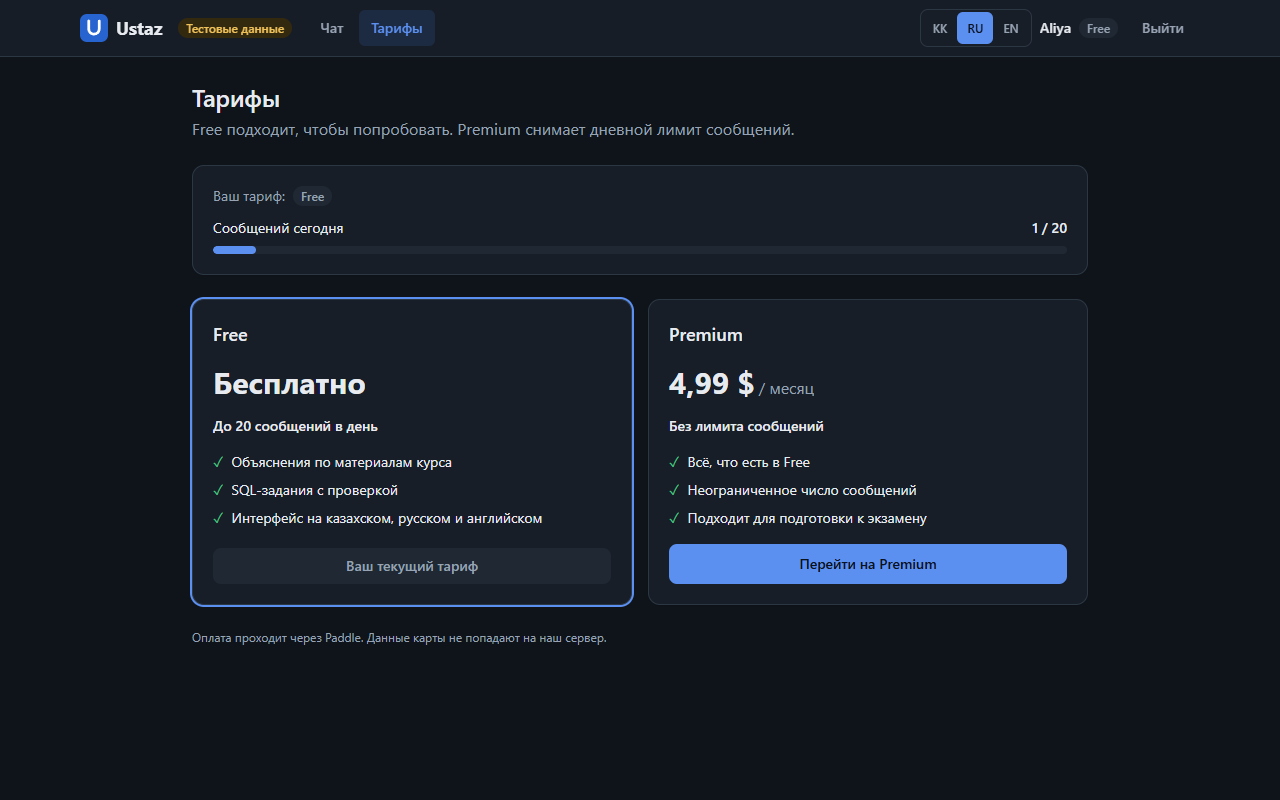
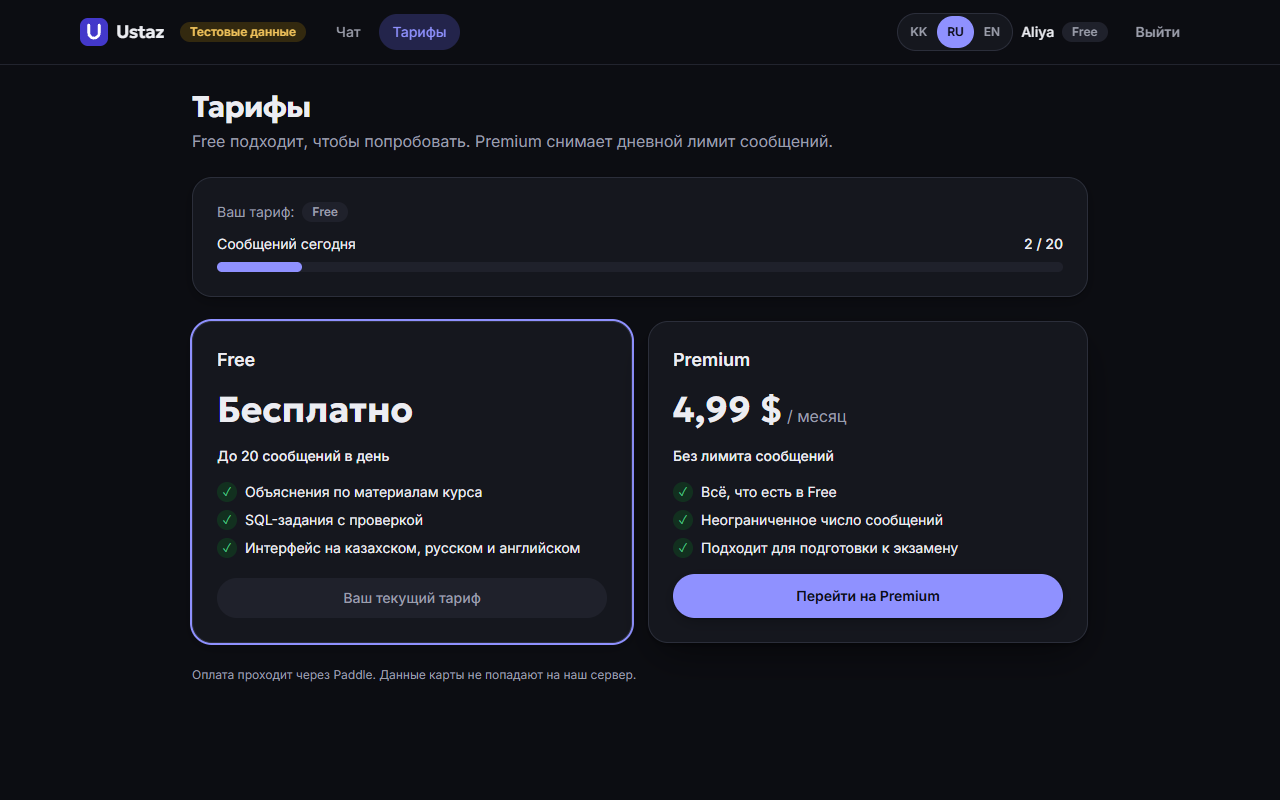
Update design docs and screenshots

diff --git a/docs/design.md b/docs/design.md
@@ -1,15 +1,15 @@
 # Дизайн экранов
 
-Четыре экрана Milestone 2: вход, чат, SQL-задание, тарифы. Для каждого — раскладка на телефоне (ширина 360 px) и ноутбуке (1280 px), состояния и скриншоты из `docs/design/`.
+Публичная главная страница и четыре экрана приложения: вход, чат, SQL-задание, тарифы. Для каждого — раскладка на телефоне (ширина 360 px) и ноутбуке (1280 px), состояния и скриншоты из `docs/design/`. Отдельный раздел описывает анимацию.
 
-Скриншоты сняты с работающего frontend в режиме тестовых данных (`VITE_MOCK_API`), поэтому совпадают с тем, что видит пользователь.
+Скриншоты сняты с работающего frontend в режиме тестовых данных (`VITE_MOCK_API=all`), поэтому совпадают с тем, что видит пользователь. Ноутбук — 1280×800, телефон — 360 px при плотности 2×.
 
 ## Стиль
 
 ### Принципы
 
-- Спокойный интерфейс для учёбы: светлый фон, белые карточки, один акцентный цвет.
-- Код и SQL — всегда моноширинным шрифтом на сером фоне, чтобы отличался от объяснений.
+- Спокойный интерфейс для учёбы: тёплый светлый фон, белые карточки, один акцентный цвет — индиго.
+- Заголовки — крупным выразительным шрифтом, текст — нейтральным. Код и SQL — всегда моноширинным шрифтом на отдельном фоне.
 - Ответы ИИ всегда помечены бейджем «Сгенерировано ИИ», источники — под ответом.
 - Тёмная тема включается автоматически по настройке системы (`prefers-color-scheme`).
 
@@ -19,25 +19,30 @@
 
 | Токен | Светлая | Тёмная | Где |
 |---|---|---|---|
-| `bg` | `#f6f7f9` | `#0f141b` | фон страницы |
-| `surface` | `#ffffff` | `#171e27` | карточки, шапка, поля |
-| `surface-muted` | `#eef1f5` | `#1f2833` | код, шапки таблиц, неактивное |
-| `border` | `#dde2e9` | `#2c3744` | рамки |
-| `text` | `#18212f` | `#e7ebf0` | основной текст |
-| `muted` | `#5b6676` | `#97a3b3` | подписи, второстепенный текст |
-| `primary` | `#2864d0` | `#5b8ff0` | кнопки, ссылки, сообщения студента |
-| `primary-soft` | `#e6eefc` | `#1c2a42` | выбранная тема, источники |
-| `success` / `success-soft` | `#157644` / `#e4f5eb` | `#4cc283` / `#133024` | «Верно» |
-| `warning` / `warning-soft` | `#8a5a00` / `#fff4dc` | `#f0c25a` / `#33290f` | «Сгенерировано ИИ», лимит, неверный результат |
-| `danger` / `danger-soft` | `#c2352b` / `#fdeceb` | `#f0776d` / `#3a1b19` | ошибки, ошибка SQL |
+| `bg` | `#f5f3ee` | `#0c0d12` | фон страницы |
+| `surface` | `#ffffff` | `#15171e` | карточки, шапка, поля |
+| `surface-muted` | `#eeebe4` | `#1f212b` | код, шапки таблиц, неактивное |
+| `border` | `#dfdbd1` | `#2b2e3a` | рамки |
+| `text` | `#15161b` | `#ecedf2` | основной текст |
+| `muted` | `#5a5d66` | `#9b9eab` | подписи, второстепенный текст |
+| `primary` | `#4338ca` | `#8f91ff` | кнопки, ссылки, сообщения студента |
+| `primary-soft` | `#e9e8fc` | `#23244b` | выбранная тема, источники |
+| `success` / `success-soft` | `#137343` / `#e3f4e9` | `#4cc283` / `#12301f` | «Верно» |
+| `warning` / `warning-soft` | `#865600` / `#fdf1d6` | `#f0c25a` / `#33290f` | «Сгенерировано ИИ», лимит, неверный результат |
+| `danger` / `danger-soft` | `#bf342a` / `#fcebe9` | `#f27a70` / `#3a1c1a` | ошибки, ошибка SQL |
 
-Пары текст/фон подобраны с контрастом не ниже 4.5:1 (WCAG AA).
+Все пары текст/фон в обеих темах дают контраст не ниже 4.5:1 (WCAG AA); самая низкая пара — `danger` на `danger-soft`, 4.87:1.
 
-### Шрифт
+Кроме цветов, есть токены теней: `shadow-card` (карточки) и `shadow-pop` (приподнятые элементы: главная кнопка, окно редактора, Premium).
 
-- Текст: `Inter, Segoe UI, Roboto, Helvetica Neue, Arial, sans-serif` — системные шрифты, ничего не загружается. Все они поддерживают казахские буквы (ә, ғ, қ, ң, ө, ұ, ү, һ, і).
-- Код: `JetBrains Mono, Cascadia Code, Consolas, Liberation Mono, monospace`.
-- Размеры: заголовок страницы 24 px полужирный, заголовок карточки 18 px, текст 16 px, подписи 14 px, бейджи 12 px.
+### Шрифты
+
+Оба шрифта загружаются из пакетов `@fontsource-variable` и входят в сборку, внешних запросов нет.
+
+- Текст: Inter.
+- Заголовки (`font-display`): Geologica. Проверено в браузере: оба шрифта содержат все казахские буквы (Әә Ғғ Ққ Ңң Өө Ұұ Үү Һһ Іі). Unbounded, Manrope, Jost, Dela Gothic One и Russo One отклонены — в них этих букв нет.
+- Код: системный моноширинный (`Cascadia Code`, `Consolas` и т. д.), ничего не загружается.
+- Размеры: заголовок страницы 30 px жирный, заголовок карточки 18 px, текст 16 px, подписи 14 px, бейджи 12 px. На главной заголовки секций 30–48 px, первый экран — до 72 px.
 
 ### Элементы
 
@@ -45,22 +50,24 @@
 
 | Элемент | Вид |
 |---|---|
-| Кнопка primary | фон `primary`, белый текст, скругление 8 px, высота от 40 px. Одна главная кнопка на экране |
-| Кнопка secondary | белая с рамкой — быстрые действия, второстепенное |
+| Кнопка primary | фон `primary`, «таблетка», высота от 44 px, тень `shadow-card`. Одна главная кнопка на экране |
+| Кнопка secondary | фон `surface` с рамкой — быстрые действия, второстепенное |
 | Кнопка ghost | без фона — «Выйти», «Другое задание» |
+| `ButtonLink`, `ButtonAnchor` | ссылка на страницу или якорь в виде кнопки — «Войти», «Начать», «Как это работает» |
 | Кнопка disabled / loading | прозрачность 50 %; при загрузке — спиннер слева от текста |
-| Поле ввода | рамка `border`, высота от 40 px, шрифт 16 px (на iPhone не зумит страницу). Фокус — рамка и подсветка `primary`. Ошибка — красная рамка и текст под полем |
-| Карточка | фон `surface`, рамка, скругление 12 px, лёгкая тень, отступ 20 px |
-| Сообщение | `Alert`: ошибка, информация, успех, предупреждение — мягкий фон и цвет текста того же тона |
-| Бейдж | маленькая «таблетка»: план, «Тестовые данные», «Сгенерировано ИИ» |
+| Поле ввода | рамка `border`, скругление 12 px, высота от 44 px, шрифт 16 px (на iPhone не зумит страницу). Фокус — рамка и широкая подсветка `primary`. Ошибка — красная рамка и текст под полем |
+| Карточка | фон `surface`, рамка, скругление 20 px, тень `shadow-card`, отступ 20–24 px |
+| Сообщение | `Alert`: ошибка, информация, успех, предупреждение — мягкий фон, тонкая рамка и текст того же тона |
+| Бейдж | маленькая «таблетка»: план, «Тестовые данные», «Сгенерировано ИИ», «Скоро» |
 
 Отступы — шаг 4 px (Tailwind). Ширина контента — до 1152 px по центру, поля по бокам 16 px.
 
 ### Адаптивность
 
 - До 640 px: одна колонка, навигация — второй строкой шапки, бейджи плана и «Тестовые данные» скрыты.
-- От 1024 px: у чата появляется боковая колонка тем, у задания — две колонки (условие слева, запрос справа).
-- Горизонтальной прокрутки страницы нет на 360 px; широкие блоки кода и таблицы прокручиваются внутри себя.
+- До 768 px: сцены главной страницы упрощены (см. «Анимация»).
+- От 1024 px: у входа появляется левая панель, у чата — боковая колонка тем, у задания — две колонки.
+- Горизонтальной прокрутки страницы нет на 360 px; широкие блоки кода, таблицы и ряд быстрых действий в чате прокручиваются внутри себя.
 
 ## Общая шапка
 
@@ -76,26 +83,51 @@
 └──────────────────────────────┘
 ```
 
-Переключатель языка есть на всех страницах, включая вход. Если пользователь вошёл, выбранный язык сохраняется в профиль (`PATCH /api/users/me`).
+Переключатель языка есть на всех страницах, включая вход и главную. Если пользователь вошёл, выбранный язык сохраняется в профиль (`PATCH /api/users/me`).
+
+## Главная страница
+
+Адрес `/`, открыта всем. Загружается отдельным чанком, поэтому не утяжеляет чат. В шапке гостю — «Войти», вошедшему — «Открыть чат».
+
+```
+┌ [U] Ustaz                          [KK|RU|EN] [Войти] ┐
+│ 01 / Учебный ассистент по SQL                          │
+│ Учи SQL вместе с тремя ИИ-агентами      (сетка точек)  │
+│ [Начать] [Как это работает]                            │
+├ 02 / Три агента ──────────────────────────────────────┤
+│ подпись шага           вопрос → оркестратор → 3 агента │
+├ 03 / SQL-песочница ───────────────────────────────────┤
+│ задание               окно запроса, таблица, «Верно»   │
+├ 04 / Пять тем курса ── карточки тем едут влево ───────┤
+├ 05 / Прогресс по темам (Скоро) ── шкалы освоения ─────┤
+├ 06 / Тарифы ── Free, Premium, призыв [Начать] ────────┤
+└ Подвал: Ustaz, команда, ссылка на GitHub ─────────────┘
+```
+
+- Тексты — через переводы (`landing.*` в kk, ru, en). Запрос и строки результата в песочнице — из учебной базы `frontend/src/mocks/course.ts`.
+- «Прогресс по темам» — пример с бейджем «Скоро»: модель знаний появится позже.
+- Тарифы берутся из `GET /api/billing/plans`. Эндпоинт пока требует входа, поэтому гостю на реальном backend карточки показываются без цены и лимита.
+- «Начать» ведёт на `/register`, вошедшему — «Открыть чат» → `/chat`.
+
+| Первый экран | Сцена «Три агента» | Телефон |
+|---|---|---|
+| ![](design/landing-desktop.png) | ![](design/landing-agents-desktop.png) | ![](design/landing-mobile.png) |
 
 ## 1. Вход и регистрация
 
 ```
-┌──────────────────────────────┐
-│ [U] Ustaz         [KK|RU|EN] │
-│ ┌──────────────────────────┐ │
-│ │ Вход                     │ │
-│ │ Ассистент для изучения…  │ │
-│ │ [ ошибка сервера ]       │ │
-│ │ E-mail   [____________]  │ │
-│ │ Пароль   [____________]  │ │
-│ │ [        Войти         ] │ │
-│ │ Нет аккаунта? Зарегистр. │ │
-│ └──────────────────────────┘ │
-└──────────────────────────────┘
+Ноутбук:
+┌ Ustaz ──────────────────────────────────────────── [KK|RU|EN] ┐
+│ ┌ Учебный ассистент по SQL ─┐   ┌ Вход ────────────────────┐ │
+│ │ Учи SQL вместе с тремя    │   │ [ ошибка сервера ]       │ │
+│ │ ИИ-агентами               │   │ E-mail   [____________]  │ │
+│ │ (Учитель) (Экзаменатор)   │   │ Пароль   [____________]  │ │
+│ │ (Наставник)               │   │ [        Войти         ] │ │
+│ └───────────────────────────┘   └──────────────────────────┘ │
+Телефон: только форма во всю ширину.
 ```
 
-- Одна карточка по центру шириной до 384 px, на телефоне — во всю ширину.
+- На ширине от 1024 px слева панель: что такое Ustaz и три агента. На телефоне — только форма.
 - Регистрация: имя, e-mail, пароль, повтор пароля, язык обучения.
 - Ошибки полей — под полем сразу при отправке (пустое поле, неверный e-mail, пароль короче 8 символов или длиннее 72 байт). Ошибки сервера (`invalid_credentials`, `email_taken`, нет связи) — красным блоком над полями.
 - Загрузка — спиннер в кнопке, кнопка неактивна.
@@ -109,22 +141,24 @@
 ```
 Ноутбук:
 ┌ Темы курса ───┐ ┌──────────────────────────────────────────────┐
-│ 1. SELECT…    │ │                     [Объясни тему «…»]  (студент) │
-│ 2. Сортировка │ │ ┌ Учитель (Сгенерировано ИИ) ──────────┐      │
-│▶3. Агрегаты   │ │ │ текст, ```код```                      │      │
-│ 4. JOIN       │ │ │ Источники: [Конспект: агрегаты…]      │      │
-│ 5. Подзапросы │ │ └───────────────────────────────────────┘      │
-└───────────────┘ │ ─────────────────────────────────────────────── │
-                  │ [Объясни тему] [Подсказка] [Дай задание]        │
-                  │ [ Сообщение…                       ] [Отправить] │
+│ (1) SELECT…   │ │                   [Объясни тему «…»]  (студент) │
+│ (2) Сортировка│ │ (У) ┌ Учитель (Сгенерировано ИИ) ──────┐      │
+│ (3) Агрегаты  │ │     │ текст, ```код```                  │      │
+│ (4) JOIN      │ │     │ Источники: [Конспект: …]          │      │
+│ (5) Подзапросы│ │     └───────────────────────────────────┘      │
+└───────────────┘ │ ── лента прокручивается внутри ─────────────── │
+                  │ (Объясни тему) (Подсказка) (Не понял) (Задание) │
+                  │ ┌ Сообщение…                     [Отправить] ┐ │
                   └──────────────────────────────────────────────────┘
-Телефон: вместо колонки тем — выпадающий список «Тема» над чатом.
+Телефон: вместо колонки тем — выпадающий список «Тема» над чатом,
+быстрые действия — одна строка, листается вбок.
 ```
 
-- Сообщения студента — справа, синие. Ответы ассистента — слева, белая карточка: имя агента, бейдж «Сгенерировано ИИ», текст с блоками кода, список источников.
-- Быстрые действия работают, когда выбрана тема: «Объясни тему» (`action: explain`), «Подсказка» (`action: hint`), «Дай задание» (открывает экран задания).
+- Чат занимает высоту экрана под шапкой: лента сообщений прокручивается внутри себя, поле ввода всегда на виду.
+- Сообщения студента — справа, в цвете `primary`. Ответы ассистента — слева, белая карточка с кружком-буквой агента: имя агента, бейдж «Сгенерировано ИИ», текст с блоками кода, список источников.
+- Быстрые действия работают, когда выбрана тема: «Объясни тему» (`action: explain`), «Подсказка» (`action: hint`), «Дай задание» (открывает экран задания). Без темы над ними подсказка «Выберите тему…».
 - Enter — отправить, Shift+Enter — новая строка.
-- Состояния: загрузка истории; пустой чат с подсказкой, что спросить; «Ассистент отвечает…» со спиннером; ошибка — красный блок над кнопками, текст сообщения возвращается в поле; лимит Free (429) — жёлтый блок со ссылкой «Перейти на Premium».
+- Состояния: загрузка истории; пустой чат с подсказкой, что спросить; «Ассистент отвечает…» с тремя прыгающими точками; ошибка — красный блок над кнопками, текст сообщения возвращается в поле; лимит Free (429) — жёлтый блок со ссылкой «Перейти на Premium».
 - Первый экран `/chat` — выбор курса и кнопка «Продолжить» для последней сессии.
 
 | Ноутбук | Телефон | Тёмная тема |
@@ -136,11 +170,11 @@
 ```
 Ноутбук:
 ← Вернуться в чат
-┌ SQL-задание   Сложность: 1 ┐ ┌ Ваш SQL-запрос ─────────────────┐
+┌ SQL-задание   Сложность: 1 ┐ ┌ ● ● ●  Ваш SQL-запрос ──────────┐
 │ Условие задания            │ │ [ SELECT …                     ] │
 │ Таблицы учебной базы       │ │ [Проверить]  Ctrl + Enter        │
 │ ┌students─┐ ┌grades──┐     │ └──────────────────────────────────┘
-│ │id  INT  │ │…       │     │ ┌ (Верно! / Не совпадает / Ошибка)─┐
+│ │id  INT  │ │…       │     │ ┌ (✓ Верно! / Не совпадает / Ошибка)┐
 │ └─────────┘ └────────┘     │ │ Результат запроса (строк: N)     │
 └────────────────────────────┘ │ таблица                          │
                                │ [Следующее задание]              │
@@ -149,8 +183,8 @@
 ```
 
 - Схема таблиц — карточки «имя столбца — тип».
-- Поле запроса — моноширинный шрифт, без автозамены и проверки орфографии.
-- Результат по `feedback_code`: `correct` — зелёный, `wrong_result` — жёлтый, `sql_error` — красный плюс текст ошибки SQLite.
+- Поле запроса — окно в виде небольшого редактора, моноширинный шрифт, без автозамены и проверки орфографии.
+- Результат по `feedback_code`: `correct` — зелёный с галочкой, `wrong_result` — жёлтый, `sql_error` — красный плюс текст ошибки SQLite.
 - Таблица результата — до 50 строк, прокрутка внутри, `NULL` серым курсивом.
 - После верного ответа — «Следующее задание». После неверного — «Спросить подсказку в чате» (возвращает в чат и сразу просит подсказку) и «Другое задание».
 - Эталонный ответ нигде не показывается.
@@ -175,7 +209,7 @@
 Телефон: карточки друг под другом.
 ```
 
-- Текущий тариф выделен синей рамкой. Прогресс-бар становится красным, когда лимит исчерпан.
+- Текущий тариф выделен рамкой `primary`, Premium приподнят тенью `shadow-pop`. Прогресс-бар становится красным, когда лимит исчерпан.
 - Цена форматируется под язык интерфейса (`4,99 $` / `$4.99`).
 - «Перейти на Premium»: с Paddle открывается окно оплаты Paddle Checkout поверх страницы; с тестовым провайдером план меняется сразу.
 - После оплаты: «Оплата прошла, обновляем тариф…», затем «Готово! Тариф Premium подключён». Если план не обновился за 30 секунд — информационное сообщение обновить страницу позже.
@@ -184,3 +218,57 @@
 | Ноутбук | Телефон | Тёмная тема |
 |---|---|---|
 | ![](design/pricing-desktop.png) | ![](design/pricing-mobile.png) | ![](design/pricing-desktop-dark.png) |
+
+## Анимация
+
+### На чём сделано
+
+- **GSAP** — все анимации. В React только через хук `useGSAP`: он сам удаляет анимации, когда компонент уходит со страницы.
+- **ScrollTrigger** — привязка анимации к прокрутке. `pin` закрепляет секцию на экране, пока прокрутка тратится на анимацию внутри неё; `scrub` ведёт анимацию вместе с прокруткой, в обе стороны.
+- **SplitText** — разбивает заголовок первого экрана на строки.
+- **Lenis** — плавная прокрутка, только на главной. Её кадры двигает тот же таймер, что и GSAP (`gsap.ticker`), и каждая прокрутка обновляет ScrollTrigger.
+- Сцены собраны из HTML, SVG и CSS, без WebGL.
+
+Код: `frontend/src/motion/` — общая настройка (`gsap.ts` — ядро для всего приложения, `scroll.ts` — ScrollTrigger и SplitText только для главной, `tokens.ts` — длительности, easing, условия, `useLenis.ts`). Сцены главной — по одному файлу в `frontend/src/landing/`.
+
+### Главная страница
+
+| № | Сцена | Ноутбук (≥ 768 px) | Телефон (< 768 px) |
+|---|---|---|---|
+| 01 | Первый экран (`HeroScene`, `DotGrid`) | строки заголовка поднимаются по очереди; SVG-сетка точек медленно сдвигается, отдельные клетки мерцают; при прокрутке экран уменьшается и тускнеет (scrub) | то же |
+| 02 | Три агента (`AgentsScene`) | pin на три высоты экрана, одна timeline с метками `scatter` → `lines` → `teacher` → `examiner` → `mentor`: части разлетелись и собираются в схему, линии прорисовываются, точка-сообщение бежит к каждому агенту, подпись слева меняется | вертикальный список без pin (`AgentsList`): линия растёт с прокруткой, шаги въезжают по одному |
+| 03 | SQL-песочница (`SandboxScene`) | pin на две высоты экрана: запрос печатается по символам, полоса «выполнения», строки результата въезжают по одной, рисуется галочка | та же последовательность, без pin, один раз при появлении |
+| 04 | Пять тем (`TopicsScene`) | pin, ряд карточек едет влево; длина прокрутки равна тому, насколько ряд шире экрана | обычная лента со scroll-snap внутри блока |
+| 05 | Прогресс (`ProgressScene`) | шкалы заполняются, числа растут, один раз при появлении | то же |
+| 06 | Тарифы и призыв (`PricingCta`) | карточки и призыв въезжают снизу | то же |
+
+На телефонах закреплённых секций нет совсем.
+
+### Экраны приложения
+
+Анимация сдержанная, учиться не мешает. Lenis здесь не включается: у ленты чата своя прокрутка.
+
+| Где | Что | Файл |
+|---|---|---|
+| Смена страницы | содержимое проявляется и чуть поднимается за 0,25 с, шапка на месте | `components/PageTransition.tsx` |
+| Новое сообщение в чате | проявляется и поднимается на 12 px; история при загрузке не анимируется | `chat/MessageBubble.tsx` |
+| «Ассистент отвечает…» | три точки прыгают по очереди | `chat/TypingDots.tsx` |
+| Результат проверки SQL | карточка проявляется, строки таблицы появляются по очереди (вся волна не дольше 0,6 с), у «Верно» рисуется галочка | `chat/AttemptResultView.tsx` |
+| Тарифы | полоса лимита заполняется от нуля | `pages/PricingPage.tsx` |
+
+### Правила
+
+- Анимируются только `transform`, `opacity` и `stroke-dashoffset` в SVG — это не вызывает перерасчёт раскладки.
+- Каждая анимация создаётся внутри `gsap.matchMedia()` с условием «движение разрешено» (`motion`, `desktop` или `mobile` из `motion/tokens.ts`). Раскладки отличаются для ширины от 768 px и меньше.
+- В CSS ничего не скрыто заранее: начальные состояния задаёт сам GSAP (`from`). Если анимация не запустилась, всё видно.
+- Длительности и easing — общие, из `motion/tokens.ts`.
+
+### Как отключается
+
+При системной настройке «уменьшить движение» (`prefers-reduced-motion: reduce`) ни одно условие `matchMedia` не срабатывает, и код анимаций не запускается:
+
+- нет закреплённых секций и Lenis — главная читается как обычная лента, все сцены в конечном виде (схема собрана, запрос и таблица целиком, темы — лента с прокруткой);
+- переход между страницами, появление сообщений, строки результата и галочка сразу видны, точки индикатора стоят на месте;
+- автопрокрутка чата вниз — мгновенная, без плавности.
+
+Проверить: DevTools → Rendering → Emulate CSS media feature `prefers-reduced-motion: reduce`.

diff --git a/frontend/README.md b/frontend/README.md
@@ -37,6 +37,8 @@ src/
   i18n/         i18next setup, locales/{kk,ru,en}.json, error code texts
   components/   layout, language switcher, base UI elements
   pages/        one file per screen
+  landing/      scenes of the public home page, one file per scene
+  motion/       GSAP setup, shared timing, smooth scroll for the home page
 ```
 
 Rules:
